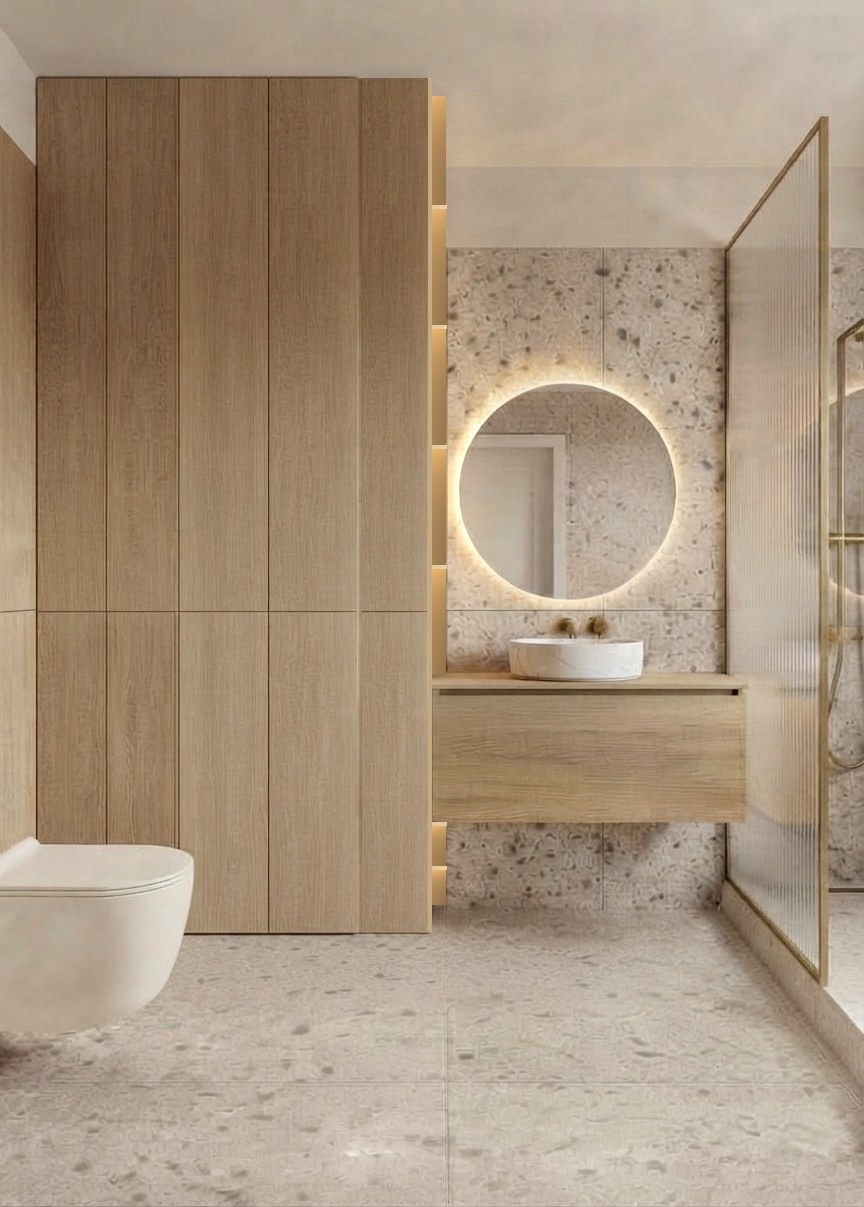
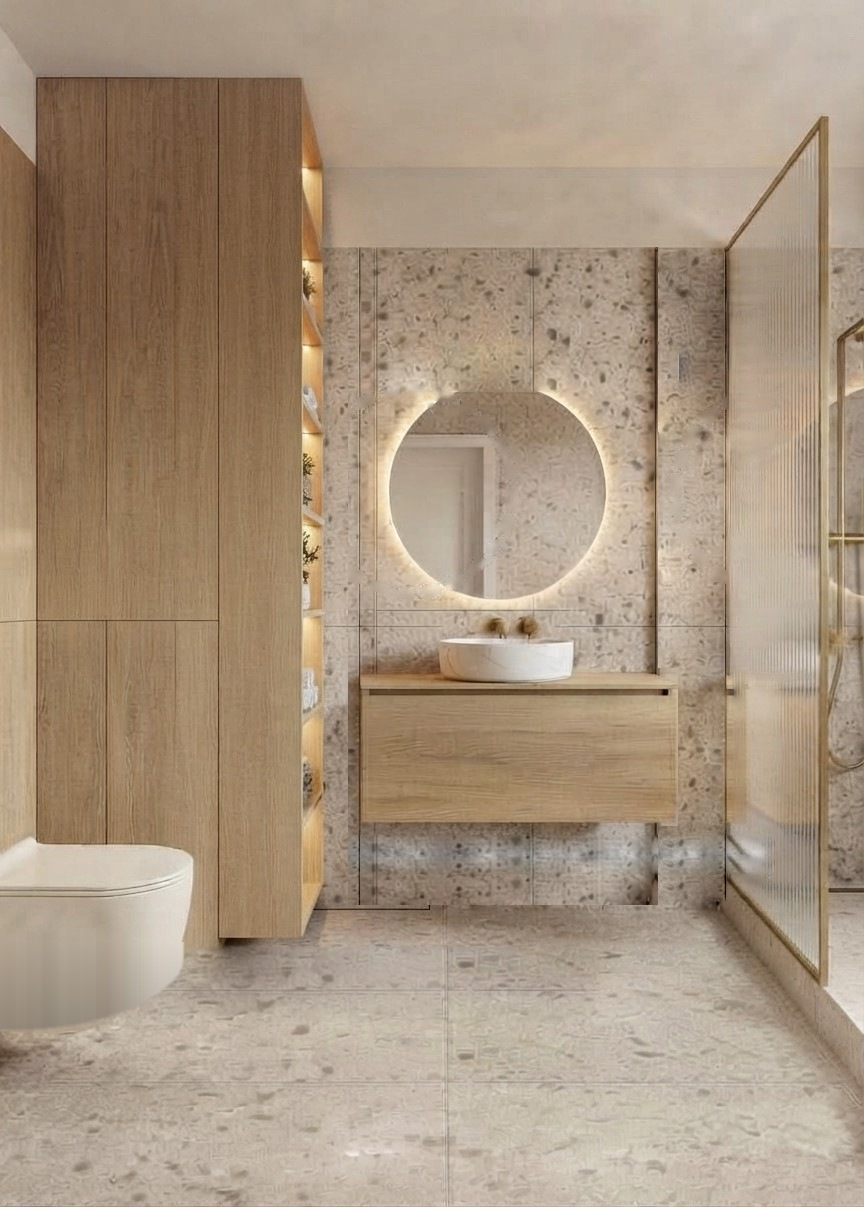
Big bathroom: shelf column, vanity centred on outlets
Claude-Session: https://claude.ai/code/session_01MbzakcTS9zrjW94ifsyEv2

diff --git a/interior/itog/index.html b/interior/itog/index.html
@@ -28,7 +28,7 @@ textarea{min-height:70px;resize:vertical;margin-top:10px}
 <h1>Квартира целиком</h1>
 <p class="lead">По вашим ответам собрали квартиру в одном стиле: белые стены, светлый дуб, шалфей и фисташка, охра и пыльная роза, без тёмных цветов, в санузлах — не больше трёх цветов. В каждой комнате выберите один вариант и напишите, что поправить — даже мелочи.</p>
 <p><input id="name" placeholder="Ваше имя" autocomplete="given-name"></p>
-<p class="status" id="status"></p><p class="status">Версия 20 · в санузлах терраццо — вариант A</p>
+<p class="status" id="status"></p><p class="status">Версия 21 · в санузлах терраццо — вариант A</p>
 <div id="rooms"></div></div>
 <div class="lb" id="lb" hidden><img id="lbImg" alt=""></div>
 <script id="data" type="application/json">[{"key": "gostinaya", "title": "Кухня-гостиная", "opts": [{"id": "v7-gostinaya-05", "src": "../img/v7-gostinaya-05.jpg", "w": 1195, "h": 896, "label": "A · Наша комната по фото: вид из прихожей на окно"}, {"id": "v7-gostinaya-02", "src": "../img/v7-gostinaya-02.jpg", "w": 1195, "h": 896, "label": "A · тот же вариант: вид на диван и окно"}, {"id": "v7-gostinaya-03", "src": "../img/v7-gostinaya-03.jpg", "w": 896, "h": 1195, "label": "A · тот же вариант: вид от окна на кухню и нишу"}, {"id": "v7-gostinaya-04", "src": "../img/v7-gostinaya-04.jpg", "w": 896, "h": 1195, "label": "A · тот же вариант: вид вдоль стены с ТВ"}, {"id": "v3-gostinaya-03", "src": "../img/v3-gostinaya-03.jpg", "label": "B · фисташковая кухня, розовый диван, стулья охра", "w": 1115, "h": 960}, {"id": "v3-gostinaya-04", "src": "../img/v3-gostinaya-04.jpg", "label": "C · дубовая кухня, шалфейный диван, розовые стулья", "w": 1115, "h": 960}, {"id": "v3-gostinaya-02", "src": "../img/v3-gostinaya-02.jpg", "label": "D · фисташковая кухня, розовый диван, стулья охра + роза", "w": 1115, "h": 960}]}, {"key": "spalnya", "title": "Спальня", "opts": [{"id": "v2-spalnya-03", "src": "../img/v2-spalnya-03.jpg", "label": "A · фисташковая кровать, стулья охра", "w": 1115, "h": 960}, {"id": "v2-spalnya-02", "src": "../img/v2-spalnya-02.jpg", "label": "B · розовая кровать", "w": 1376, "h": 768}, {"id": "v2-spalnya-01", "src": "../img/v2-spalnya-01.jpg", "label": "C · кровать из дуба, шкаф шалфей", "w": 1376, "h": 768}]}, {"key": "komnata", "title": "Комната", "opts": [{"id": "v8-komnata-01", "src": "../img/v8-komnata-01.jpg", "w": 1153, "h": 912, "label": "Наша детская по фото: вид от двери на окно"}]}, {"key": "prihozhaya", "title": "Прихожая", "opts": [{"id": "v8-prihozhaya-01", "src": "../img/v8-prihozhaya-01.jpg", "w": 848, "h": 1229, "label": "A · Наша прихожая по фото: шкаф шалфей, зеркало до потолка"}, {"id": "v6-prihozhaya-01", "src": "../img/v6-prihozhaya-01.jpg", "w": 797, "h": 1152, "label": "B · шалфей, консоль из дуба, зеркало, светлый пол"}, {"id": "v6-prihozhaya-02", "src": "../img/v6-prihozhaya-02.jpg", "w": 863, "h": 1248, "label": "C · шалфей, полуовальное зеркало с подсветкой"}, {"id": "v6-prihozhaya-03", "src": "../img/v6-prihozhaya-03.jpg", "w": 863, "h": 1248, "label": "D · шкаф шалфей, белые стены, полоса шалфея за зеркалом"}, {"id": "v6-prihozhaya-04", "src": "../img/v6-prihozhaya-04.jpg", "w": 863, "h": 1248, "label": "E · шкаф шалфей, белые стены, полуовальное зеркало"}, {"id": "v2-prihozhaya-01", "src": "../img/v2-prihozhaya-01.jpg", "label": "F · фисташковый шкаф, мрамор", "w": 928, "h": 1152}, {"id": "v2-prihozhaya-04", "src": "../img/v2-prihozhaya-04.jpg", "label": "G · дубовый шкаф, ёлочка", "w": 928, "h": 1152}]}, {"key": "sanuzel", "title": "Большой санузел", "opts": [{"id": "v9-sanuzel-01", "src": "../img/v9-sanuzel-01.jpg", "label": "A · по реальному фото: терраццо и дуб", "w": 864, "h": 1207}, {"id": "v4-sanuzel-03", "src": "../img/v4-sanuzel-03.jpg", "label": "B · терраццо и дуб", "w": 1024, "h": 1024}, {"id": "v2-sanuzel-01", "src": "../img/v2-sanuzel-01.jpg", "label": "C · белый, дуб и розовая плитка", "w": 1024, "h": 1024}, {"id": "v2-sanuzel-02", "src": "../img/v2-sanuzel-02.jpg", "label": "D · белый, дуб и фисташковая плитка", "w": 1024, "h": 1024}]}, {"key": "malyy", "title": "Малый санузел", "opts": [{"id": "v4-malyy-01", "src": "../img/v4-malyy-01.jpg", "label": "A · терраццо и дуб", "w": 928, "h": 1152}, {"id": "v2-malyy-03", "src": "../img/v2-malyy-03.jpg", "label": "B · белый, дуб и зелёная плитка", "w": 922, "h": 1152}]}]</script>
